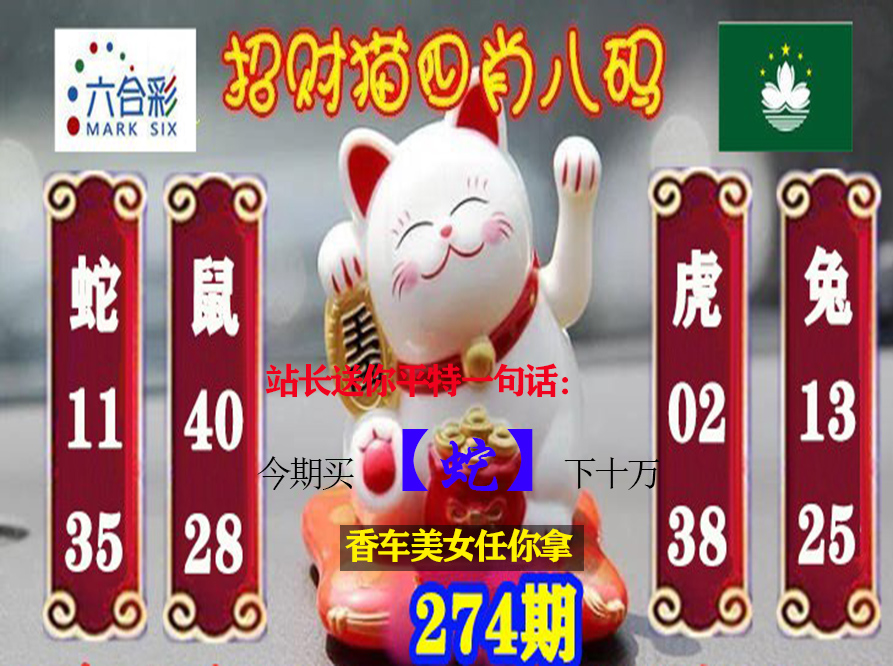
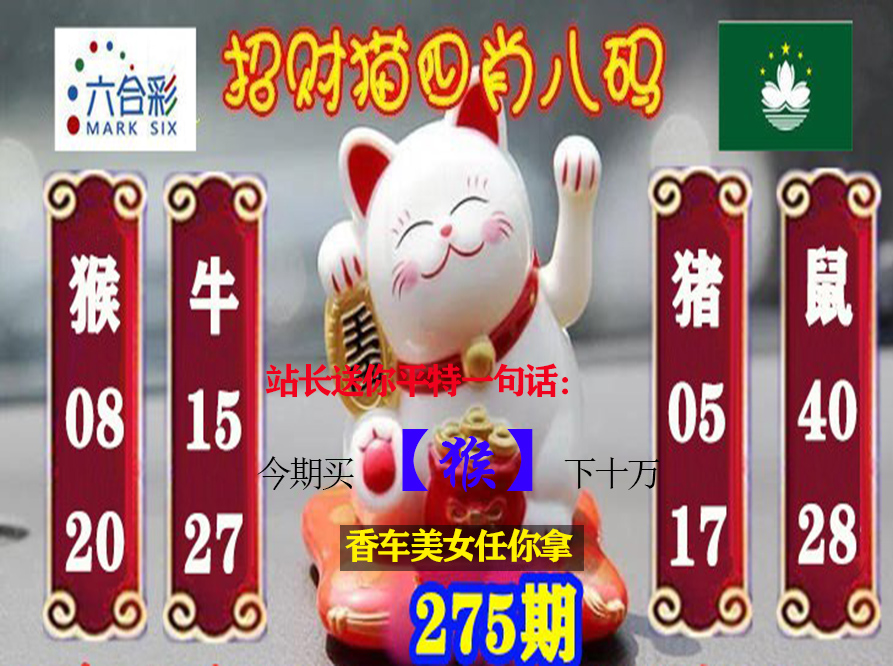
Update:  2023.10.02 11:20:50

diff --git a/Script/Src/xjw/杀两肖图.js b/Script/Src/xjw/杀两肖图.js
@@ -37,8 +37,8 @@ document.writeln("	");
 document.writeln("			<tr style=\'box-sizing: border-box;\'>");
 document.writeln("			<td height=\'40\' style=\'box-sizing: border-box;\'>");
 document.writeln("			");
-document.writeln("<a target=\'_blank\' href=\'https://49080.com/#/picture/28585\'><img src=\'https://tk2.qingxinmingxiang.com:4949/col/274/c002.jpg\'  width=\'49%\'></a>");
-document.writeln("<a target=\'_blank\' href=\'https://49080.com/#/picture/209029\'><img src=\'https://tk2.qingxinmingxiang.com:4949/col/274/hj44.jpg\'  width=\'49%\'></a>");
+document.writeln("<a target=\'_blank\' href=\'https://49080.com/#/picture/28585\'><img src=\'https://tk2.qingxinmingxiang.com:4949/col/275/c002.jpg\'  width=\'49%\'></a>");
+document.writeln("<a target=\'_blank\' href=\'https://49080.com/#/picture/209029\'><img src=\'https://tk2.qingxinmingxiang.com:4949/col/275/hj44.jpg\'  width=\'49%\'></a>");
 document.writeln("		</td></tr>");
 document.writeln("		");
 document.writeln("		");
@@ -52,8 +52,8 @@ document.writeln("					<td height=\'40\' style=\'box-sizing: border-box;\'>");
 document.writeln("			<p align=\'center\' style=\'box-sizing: border-box; padding: 0px; margin: 0px;\'>");
 document.writeln("			<font size=\'4\' style=\'margin: 0px; padding: 0px;\'>");
 document.writeln("			275期玄机网禁两肖<font color=\'#FF0000\'>【鼠马】</font>特开<font color=\'#0000FF\'>？00</font>准<br>");
-document.writeln("			275期澳门杀两肖图<font color=\'#FF0000\'>【更新】</font>特开<font color=\'#0000FF\'>？00</font>准<br>");
-document.writeln("			275期澳门图库禁肖<font color=\'#FF0000\'>【更新】</font>特开<font color=\'#0000FF\'>？00</font>准</font></font></p></td>");
+document.writeln("			275期澳门杀两肖图<font color=\'#FF0000\'>【兔龙】</font>特开<font color=\'#0000FF\'>？00</font>准<br>");
+document.writeln("			275期澳门图库禁肖<font color=\'#FF0000\'>【蛇猴】</font>特开<font color=\'#0000FF\'>？00</font>准</font></font></p></td>");
 document.writeln("		</tr>");
 document.writeln("<!--推广-->");
 document.writeln("				<tr style=\'box-sizing: border-box;\'>");
